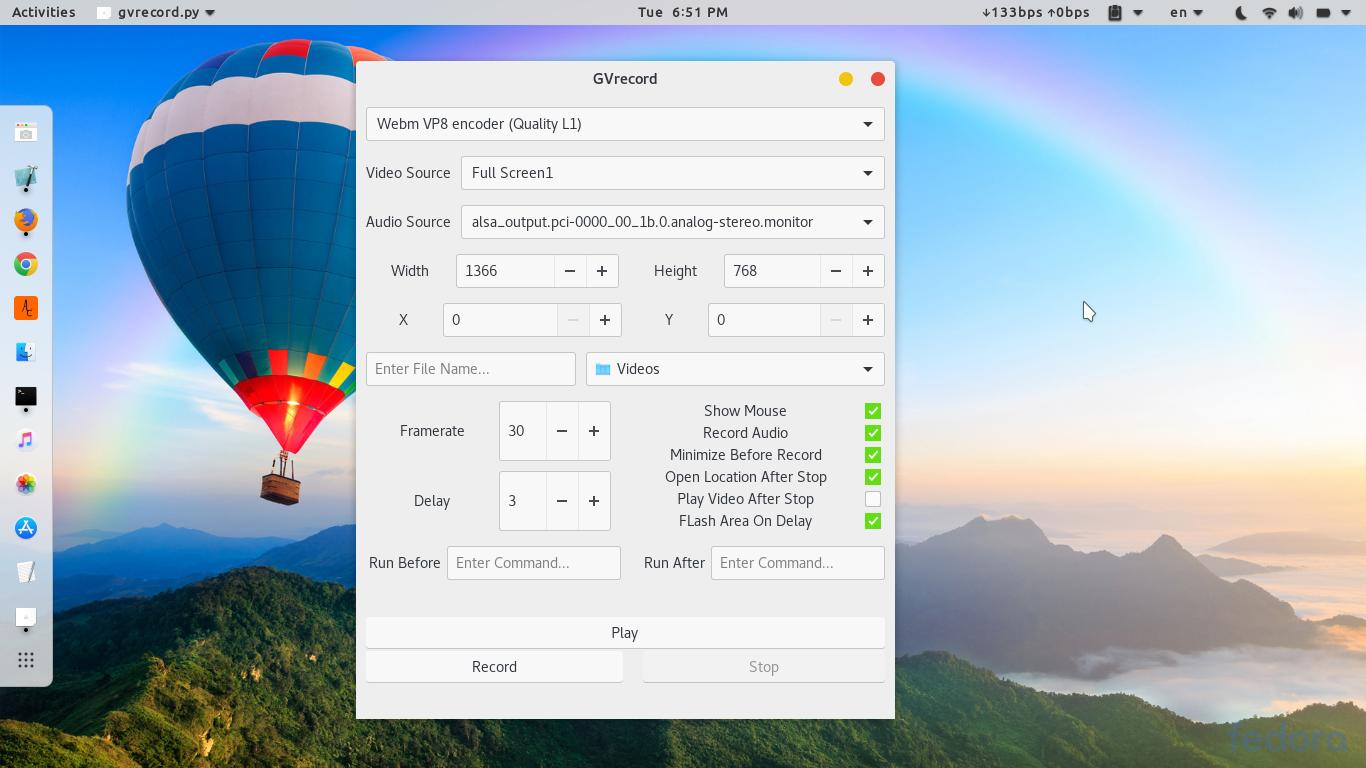
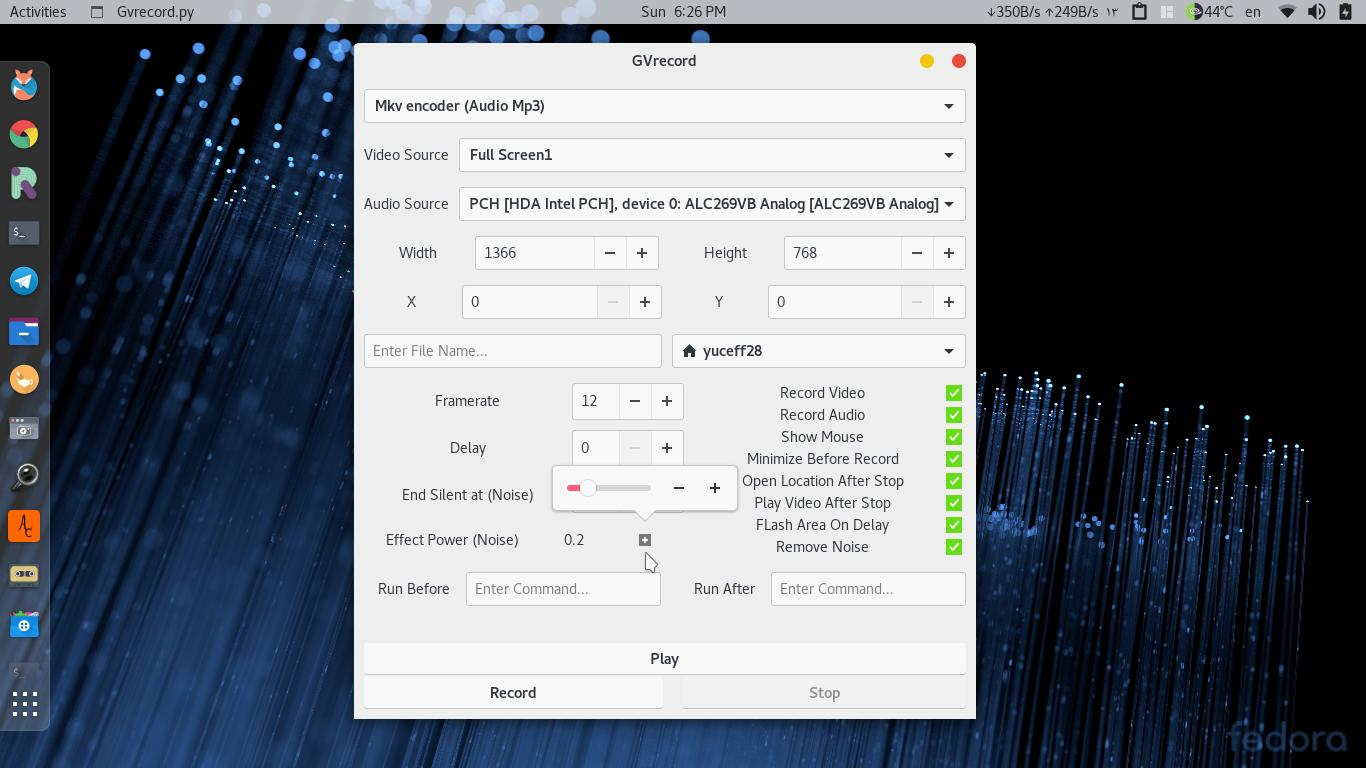
update

diff --git a/gvrecord.py b/gvrecord.py
@@ -23,9 +23,9 @@
 # TO DO
 # support kde xfce ...
 # support Gif
-# new ui
-# noise sound 
-# pause start
+#
+# Ubuntu sudo apt-get install libsox-fmt-mp3 sox ffmpeg  #/usr/lib/x86_64-linux-gnu/sox/libsox_fmt_mp3.so
+# Fedora dnf install sox ffmpeg
 
 
 import sys
@@ -209,6 +209,30 @@ class MergeAudioVideo(multiprocessing.Process):
             subprocess.call(["ffmpeg","-y", "-i", self.videolocation, "-i", self.audiolocation,"-c", "copy",new_video])
             subprocess.call(["mv", new_video, self.videolocation]) 
 
+
+class RemoveAudioNoise(multiprocessing.Process):
+    def __init__(self,audiolocation,aformat_,_end=5,power=0.2):
+        multiprocessing.Process.__init__(self)
+        self.audiolocation  = audiolocation
+        self.aformat_       = aformat_
+        self._start         = "00:00:00"
+        self._end           = "00:00:0{}".format(_end)
+        self.power          = power
+
+    def run(self):
+        noiseaud  = os.path.join("/tmp/gvrecord","noiseaud"+str(int(time.time()))+self.aformat_)
+        subprocess.call("ffmpeg -i '{}' -vn -ss {} -t {} {}".format(self.audiolocation , self._start, self._end,noiseaud),shell=True)
+            
+        noiseprof = os.path.join("/tmp/gvrecord","noiseprof"+str(int(time.time()))+".prof")
+        subprocess.call("sox {} -n noiseprof {}".format(noiseaud,noiseprof),shell=True)
+            
+        audio_clean  = os.path.join("/tmp/gvrecord","audio-clean"+str(int(time.time()))+self.aformat_)
+        subprocess.call("sox -t {} {}  {} noisered {} {}".format(self.aformat_[1:],self.audiolocation,audio_clean,noiseprof,self.power),shell=True)
+        subprocess.call(["mv", audio_clean, self.audiolocation])
+            
+
+            
+            
 class TimerLabel(threading.Thread):
     def __init__(self,q):
         threading.Thread.__init__(self)
@@ -240,8 +264,8 @@ class AppWindow(Gtk.ApplicationWindow):
     def __init__(self, *args, **kwargs):
         super().__init__(*args, **kwargs)
         self.set_border_width(10)
-        #self.set_size_request(700, 500)
-        #self.set_resizable(False)
+        self.set_size_request(500, 300)
+        self.set_resizable(False)
         self.connect("delete-event",self._quit)
 
         style_provider = Gtk.CssProvider()
@@ -486,11 +510,16 @@ class AppWindow(Gtk.ApplicationWindow):
 
         audio_label = Gtk.Label("Record Audio")
         self.audiocheckbutton = Gtk.CheckButton()
-        if len(self.audiosource )>0:
-            self.audiocheckbutton.set_active(self.recordaudio)
-        else:
+        if len(self.audiosource )<0:
             self.audiocheckbutton.set_active(False)
             self.audiocheckbutton.set_sensitive(False)
+            self.audiocheckbutton.set_tooltip_text("No Sound Card")
+        elif not os.path.isfile("/usr/bin/ffmpeg"):
+            self.audiocheckbutton.set_tooltip_text("Install ffmpeg To Active")
+            self.audiocheckbutton.set_active(False)
+            self.audiocheckbutton.set_sensitive(False)
+        else:
+            self.audiocheckbutton.set_active(self.recordaudio)
         self.audiocheckbutton.connect("toggled",self.on_value_changed,"raudio")
         hboxaudiocheckbutton.pack_start(audio_label,True,False,0)
         hboxaudiocheckbutton.pack_start(self.audiocheckbutton,False,False,0)
@@ -536,6 +565,14 @@ class AppWindow(Gtk.ApplicationWindow):
             self.noisecheckbutton.set_tooltip_text("Install Sox To Active")
             self.noisecheckbutton.set_active(False)
             self.noisecheckbutton.set_sensitive(False)
+        elif not os.path.isfile("/usr/bin/ffmpeg"):
+            self.noisecheckbutton.set_tooltip_text("Install ffmpeg To Active")
+            self.noisecheckbutton.set_active(False)
+            self.noisecheckbutton.set_sensitive(False)
+        elif len(self.audiosource )<0:
+            self.noisecheckbutton.set_active(False)
+            self.noisecheckbutton.set_sensitive(False)
+            self.noisecheckbutton.set_tooltip_text("No Sound Card")
         else:
             self.noisecheckbutton.set_active(self.noise_on)
         hboxnoisecheckbutton.pack_start(noise_label,True,False,0)
@@ -647,7 +684,7 @@ class AppWindow(Gtk.ApplicationWindow):
         
     def on_scale_button_changed(self,scalebutton,v):
         self.p_label.set_text(str(round(v,1)))
-        current_config["power"]=v
+        current_config["power"]=round(v,1)
         
     def on_noisecheckbutton(self,widget):
         with self.pipe_combo.handler_block(self.pipe_combo_handler):
@@ -699,6 +736,8 @@ class AppWindow(Gtk.ApplicationWindow):
     def startcastrecord(self,button):
         iter_ = self.pipe_combo.get_active_iter()
         if iter_ == None:
+            return
+        if not self.videocheckbutton.get_active() and not self.audiocheckbutton.get_active():
             return
         if not self.filenameentry.get_text().strip():
             self.file_name   = "Record"+str(int(time.time()))
@@ -760,7 +799,8 @@ class AppWindow(Gtk.ApplicationWindow):
             p = self.q.get().terminate()
             if self.videocheckbutton.get_active() and self.audiocheckbutton.get_active():
                 MergeAudioVideo(self.finaly_location[7:],self.audio_file_name,self.file_suffix,self.af,self.noisecheckbutton.get_active(),self.silent.get_value(),self.power.get_value()).start()
-
+            elif not self.videocheckbutton.get_active() and self.audiocheckbutton.get_active() and self.noisecheckbutton.get_active():
+                RemoveAudioNoise(self.finaly_location[7:].rsplit(".",1)[0]+self.af,self.af,self.silent.get_value(),self.power.get_value()).start()
 
 
 
@@ -1000,6 +1040,9 @@ class AppWindow(Gtk.ApplicationWindow):
             p = self.q.get().terminate()  
             if self.videocheckbutton.get_active():
                 MergeAudioVideo(self.finaly_location[7:],self.audio_file_name,self.file_suffix,self.af,self.noisecheckbutton.get_active(),self.silent.get_value(),self.power.get_value()).start()
+            elif not self.videocheckbutton.get_active() and self.audiocheckbutton.get_active() and self.noisecheckbutton.get_active():
+                RemoveAudioNoise(self.finaly_location[7:].rsplit(".",1)[0]+self.af,self.af,self.silent.get_value(),self.power.get_value()).start()
+
         write_config()
         
 class Application(Gtk.Application):
@@ -1037,7 +1080,7 @@ class Application(Gtk.Application):
         about.set_program_name("Gvrecord")
         about.set_version("0.4beta")
         about.set_copyright("Copyright © 2017 Youssef Sourani")
-        about.set_comments("Simple Tool To Record Screen")
+        about.set_comments("Simple Tool To Record Screen On Gnome Shell")
         about.set_website("https://arfedora.blogspot.com")
         about.set_logo(GdkPixbuf.Pixbuf.new_from_file(self.icon))
         about.set_authors(authors)

diff --git a/README.md b/README.md
@@ -4,11 +4,10 @@ Simple Tool To Record  Screen
 https://arfedora.blogspot.com
 
 # To DO
-Add Config file
 
-New Icon
+support kde xfce ...
 
-testing on ubuntu arch ...
+support Gif.
 
 
 
@@ -16,6 +15,8 @@ testing on ubuntu arch ...
 # Screenshot
 
 ![Alt text](https://raw.githubusercontent.com/yucefsourani/gvrecord/master/1.jpg "Screenshot")
+
+![Alt text](https://raw.githubusercontent.com/yucefsourani/gvrecord/master/2.jpg "Screenshot")
 
 
 
@@ -32,6 +33,12 @@ testing on ubuntu arch ...
   * ``` gstreamer1-plugins-good ```
     
   * ``` gstreamer1-plugins-base ```
+
+  * ``` sox #For Remove Noise ```
+
+  * ``` libsox-fmt-mp3 #For ubuntu ```
+
+  * ``` ffmpeg #For Audio Record ```
 
 
 
